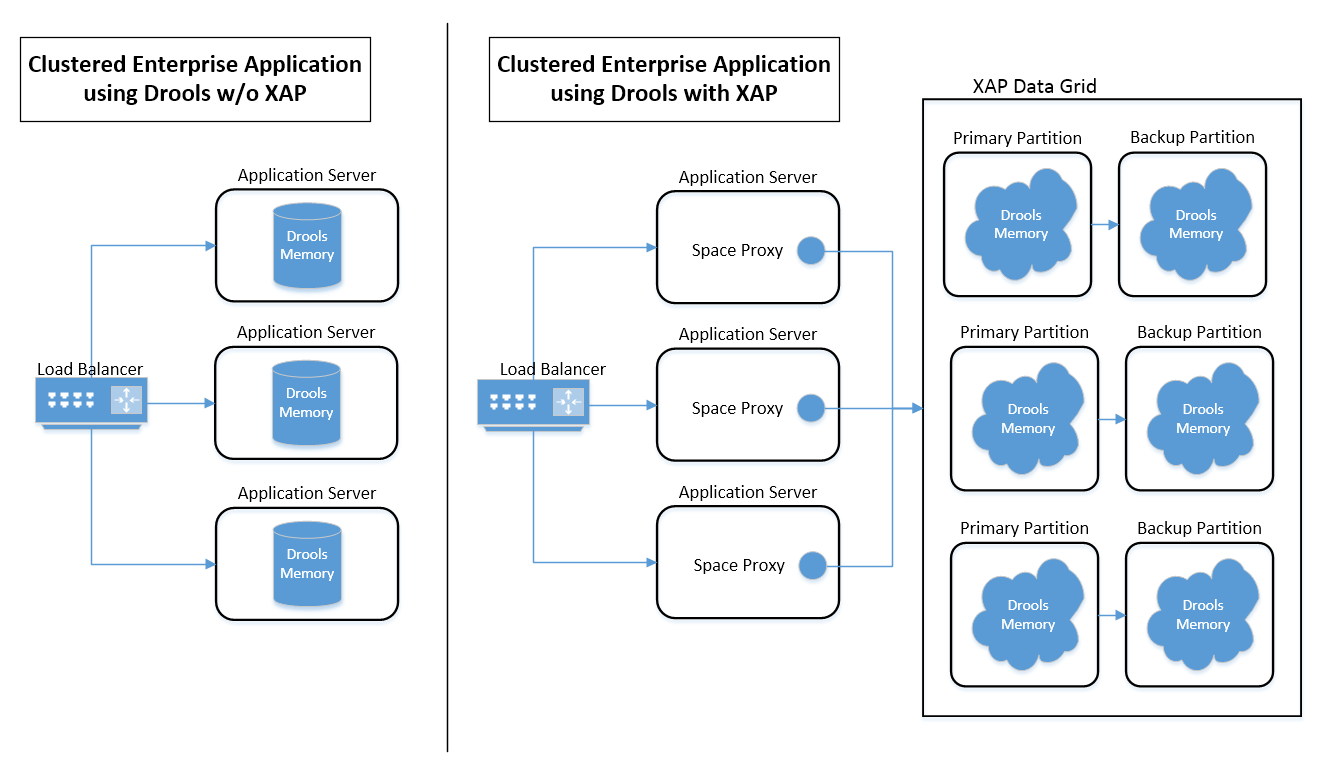
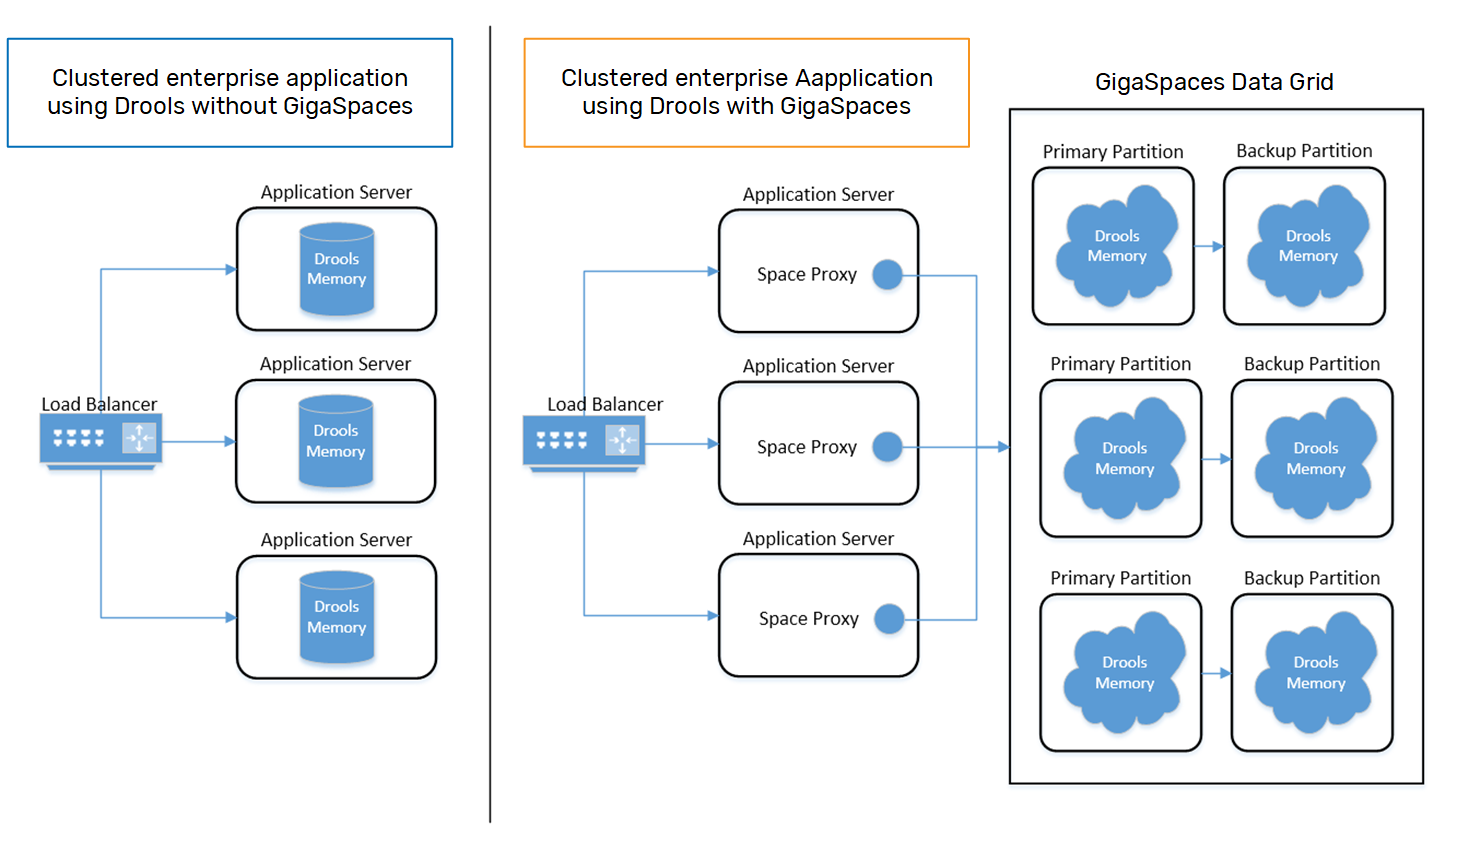
DOC-645 udpated Drools integration topic with new link to repo and diagram

diff --git a/site-flare/Content/solution-hub/xap-drools-integration.html b/site-flare/Content/solution-hub/xap-drools-integration.html
@@ -19,15 +19,14 @@
                     <td>Allen Terleto</td>
                     <td>10.0.1</td>
                     <td>September 2014</td>
-                    <td>
-                    </td>
-                    <td><a href="https://github.com/Gigaspaces/xap-drools-integration">Github link</a>
+                    <td>&#160;</td>
+                    <td><a href="https://github.com/Gigaspaces/solution-hub/tree/master/gigaspaces-drools-integration">Drools integration</a>
                     </td>
                 </tr>
             </tbody>
         </table>
         <h1><a name="summary">&#160;</a>Summary</h1>
-        <p>This article illustrates how to integrate the Drools Rule Engine with GigaSpaces <MadCap:variable name="General.DataGrid" />.</p>
+        <p>This article illustrates how to integrate the Drools Rule Engine with the GigaSpaces <MadCap:variable name="General.DataGrid" />.</p>
         <h1><a name="overview">&#160;</a>Overview</h1>
         <p>Drools is a business rule management system (BRMS) with a forward and backward chaining inference-based rules engine using an enhanced implementation of the <a href="http://en.wikipedia.org/wiki/Rete_algorithm">Rete algorithm</a>. Reasons to use Drools include:</p>
         <ul>
@@ -61,24 +60,24 @@ A package is a collection of rules and other related constructs, such as imports
             <li>Consistency</li>
             <li>Scalability</li>
         </ul>
-        <p>Let's discuss these gaps within the context of a stateless application hosted in clustered environment and explain how an integration with <MadCap:variable name="General.DataGrid" /> would benefit its use of Drools.</p>
+        <p>Let's discuss these gaps within the context of a stateless application hosted in clustered environment and explain how an integration with <MadCap:variable name="General.ProductNameXAP" /> would benefit its use of Drools.</p>
         <div class="tc-align-center">
             <p>
                 <img src="../Resources/Static/attachment_files/drools/drools2.png" alt="drools1" class="tc-picture80" />
             </p>
         </div>
         <h3><a name="distribution">&#160;</a>Distribution</h3>
-        <p>Drools was not created as a distributed solution. In order to maintain seamless load-balancing in a clustered environment, each instance of an enterprise application would require identical data in its <code>KnowledgeBase(s)</code>. Since <MadCap:variable name="General.DataGrid" /> is inherently a distributed environment it allows the clustered enterprise applications to distribute their rules across multiple <a href="https://docs.gigaspaces.com/latest/admin/data-partitioning.html">Data Grid partitions (Space)</a>. In addition, the enterprise applications would use a common reference proxy to the Space allowing them to avoid the burden on managing data locality.</p>
+        <p>Drools was not created as a distributed solution. In order to maintain seamless load-balancing in a clustered environment, each instance of an enterprise application would require identical data in its <code>KnowledgeBase(s)</code>. The <MadCap:variable name="General.ProductNameXAP" /> data grid is inherently a distributed environment, so it allows the clustered enterprise applications to distribute their rules across multiple <a href="https://docs.gigaspaces.com/latest/admin/data-partitioning.html">Data Grid partitions (Spaces)</a>. In addition, enterprise applications use a common reference proxy to the Space, allowing them to avoid the burden on managing data locality.</p>
         <h3><a name="failover">&#160;</a>Failover</h3>
-        <p>Without <MadCap:variable name="General.DataGrid" /> the data in the <code>KnowledgeBase</code> would be lost, in the case of node failure within the cluster, and could not be recovered by the standard failover mechanism. Data grid provides data failover out of the box via its <a href="https://docs.gigaspaces.com/latest/admin/asynchronous-replication.html">asynchronous replication</a> to back up cluster topology. In the case of a <MadCap:variable name="General.DataGrid" /> primary partition failure, the backup partition would become the primary, preventing data loss and maintaining data integrity throughout the entire process.</p>
+        <p>Without <MadCap:variable name="General.ProductNameXAP" />, the data in the <code>KnowledgeBase</code> would be lost, in the case of node failure within the cluster, and could not be recovered by the standard failover mechanism. <MadCap:variable name="General.ProductNameXAP" /> provides data failover out of the box via its <a href="https://docs.gigaspaces.com/latest/admin/asynchronous-replication.html">asynchronous replication</a> to back up cluster topology. In the case of a <MadCap:variable name="General.ProductNameXAP" /> primary partition failure, the backup partition becomes the primary, preventing data loss and maintaining data integrity throughout the entire process.</p>
         <h3><a name="redundancy">&#160;</a>Redundancy</h3>
-        <p>Storing the KnowledgeBase's data in each clustered JVM memory is redundant and costly in terms of memory footprint. Integration with <MadCap:variable name="General.DataGrid" /> removes the enterprise application's need to locally store data because the <code>KnowledgeBase</code> resides in a partition hosted on the Data Grid.</p>
+        <p>Storing the KnowledgeBase's data in each clustered JVM memory is redundant and costly in terms of memory footprint. Integration with <MadCap:variable name="General.ProductNameXAP" /> removes the enterprise application's need to locally store data because the <code>KnowledgeBase</code> resides in a partition hosted on the Data Grid.</p>
         <h3><a name="consistency">&#160;</a>Consistency</h3>
-        <p>Similar to the concerns of load balancing, enterprise applications require all clustered JVMs to not only store identical data but also ensure consistency upon any change. Instead of building a custom solution to update the entire cluster, <MadCap:variable name="General.DataGrid" /> can be used to ensure data consistency. By utilizing <MadCap:variable name="General.DataGrid" />'s built-in <a href="https://docs.gigaspaces.com/latest/dev-java/routing-in-partitioned-spaces.html">Routing Mechanism</a>, all instances of the cluster can seamlessly be routed to the unique partition that is storing the relevant KnowledgeBase(s) and always receive a consistent result.</p>
+        <p>Similar to the concerns of load balancing, enterprise applications require all clustered JVMs to not only store identical data but also ensure consistency upon any change. Instead of building a custom solution to update the entire cluster, <MadCap:variable name="General.ProductNameXAP" /> can be used to ensure data consistency. By utilizing <MadCap:variable name="General.ProductNameXAP" />'s built-in <a href="https://docs.gigaspaces.com/latest/dev-java/routing-in-partitioned-spaces.html">Routing Mechanism</a>, all instances of the cluster can seamlessly be routed to the unique partition that is storing the relevant KnowledgeBase(s) and always receive a consistent result.</p>
         <h3><a name="scalability">&#160;</a>Scalability</h3>
-        <p>An enterprise application hosting multiple instances of KnowledgeBases can be limited by the memory constraints of its underlying JVM. Turning to a 64-bit JVM could extend memory resources, but its benefits are eventually offset by incurring an increased garbage collection penalty. With <MadCap:variable name="General.DataGrid" />, KnowledgeBases can be distributed across separate partitions each hosted on top of their own individual 64-bit JVM, allowing Drool's production/working memory to scale into the Terabytes.</p>
+        <p>An enterprise application hosting multiple instances of KnowledgeBases can be limited by the memory constraints of its underlying JVM. Turning to a 64-bit JVM could extend memory resources, but its benefits are eventually offset by incurring an increased garbage collection penalty. With <MadCap:variable name="General.ProductNameXAP" />, KnowledgeBases can be distributed across separate partitions each hosted on top of their own individual 64-bit JVM, allowing Drool's production/working memory to scale into the Terabytes.</p>
         <h1><a name="integration-pattern">&#160;</a>Integration Pattern</h1>
-        <p>To demonstrate <MadCap:variable name="General.DataGrid" />'s integration with Drools, we designed a pattern in the form of a Maven project. The project is distributed into 4 Maven Modules, each with an individual purpose:</p>
+        <p>To demonstrate <MadCap:variable name="General.ProductNameXAP" />'s integration with Drools, we designed a pattern in the form of a Maven project. The project is distributed into 4 Maven Modules, each with an individual purpose:</p>
         <table>
             <thead>
                 <tr>
@@ -108,9 +107,9 @@ A package is a collection of rules and other related constructs, such as imports
         <p>The combination of these modules provide you with a working project to deploy a Data Grid, load/compile/remove rules from DRL files, execute rules from a one-off process and/or expose them as JSON Restful Web Service.</p>
         <p>Let's review each module to understand their code and patterns.</p>
         <h2><a name="common-module">&#160;</a>Common Module</h2>
-        <p>The main purpose of this module is to define the data model for the entire Data Grid. The data model includes a <a href="https://docs.gigaspaces.com/latest/dev-java/pojo-overview.html">POJO</a> representation of Facts, Drools Rules, Knowledge Packages, KnowledgeBases, etc.</p>
+        <p>The main purpose of this module is to define the data model for the entire data grid. The data model includes a <a href="https://docs.gigaspaces.com/latest/dev-java/pojo-overview.html">POJO</a> representation of Facts, Drools Rules, Knowledge Packages, KnowledgeBases, etc.</p>
         <p>Facts are representations of business entities which will be referenced in either or both the condition and consequence of rules. In order for client applications to dynamically create rules, they must first define Facts which will be loaded into a KnowledgeBase's Working Memory before Rules execution can occur. Therefore the Fact POJO must be created and deployed with the Space module before new dynamic rules can be compiled and executed using them as a reference.</p>
-        <p>The integration between Drools and <MadCap:variable name="General.DataGrid" /> is represented as the <a href="https://docs.gigaspaces.com/latest/dev-java/pojo-support.html">Space Class</a> called KnowledgeBaseWrapper. This object stores a KnowledgeBase in the Data Grid along with all of its compiled content (i.e. rules, definitions, globals, fact types, etc.). Therefore it is a wrapper of the Drools Production/Working Memory, which is enhanced with the routing capabilities of a Space class along with additional attributes compensating for the KnowledgeBase's lack of transparency.</p>
+        <p>The integration between Drools and <MadCap:variable name="General.ProductNameXAP" /> is represented as the <a href="https://docs.gigaspaces.com/latest/dev-java/pojo-support.html">Space Class</a> called KnowledgeBaseWrapper. This object stores a KnowledgeBase in the data grid along with all of its compiled content (i.e. rules, definitions, globals, fact types, etc.). Therefore it is a wrapper of the Drools Production/Working Memory, which is enhanced with the routing capabilities of a Space class along with additional attributes compensating for the KnowledgeBase's lack of transparency.</p>
         <p>The remaining POJOs are meant to be informative tools for management and governance purposes. Their role is to provide the user with metadata type information about the contents of KnowledgeBase without having to execute operations against the actual objects.</p>
         <h2><a name="client-module">&#160;</a>Client Module</h2>
         <p>This module implements classes encapsulating stand-alone functional processes to load, analyze, execute and remove Rules and Facts. These processes can be simply instantiated by running their main methods and will interact with the space via the Space Proxy. If you are using an Eclipse IDE you can just click on the class and choose Run As Configurations to start the process.</p>
@@ -221,7 +220,7 @@ end
 </code></pre>
         <p>The client module also allows the removal of an individual rule as an alternative to changing the element inside <code>RuleSet.xml</code> from &lt;add&gt; to &lt;remove&gt;. To remove a specific rule using this utility you need only to change the arguments when running the RemoveRule class as an application.</p>
         <h2><a name="space-module">&#160;</a>Space Module</h2>
-        <p>This module creates a deployable artifact (JAR) which instantiates Stateful processing unit(s) representing the Data Grid (Space). By default, the Space uses the SLA.xml file to deploy the predetermined amount of primary and backup partitions with the clustering topology set to <code>partitioned-sync2backup</code>.</p><pre MadCap:conditions="Version.14-5-died"><code class="language-xml">&lt;?xml version="1.0" encoding="UTF-8"?&gt;
+        <p>This module creates a deployable artifact (JAR) which instantiates Stateful processing unit(s) representing the data grid (Space). By default, the Space uses the SLA.xml file to deploy the predetermined amount of primary and backup partitions with the clustering topology set to <code>partitioned-sync2backup</code>.</p><pre MadCap:conditions="Version.14-5-died"><code class="language-xml">&lt;?xml version="1.0" encoding="UTF-8"?&gt;
 &lt;beans xmlns="http://www.springframework.org/schema/beans"
        xmlns:xsi="http://www.w3.org/2001/XMLSchema-instance"
        xmlns:os-sla="http://www.openspaces.org/schema/sla"
@@ -246,8 +245,8 @@ end
 
 &lt;/beans&gt;
 </code></pre>
-        <p>In addition to hosting data, this processing unit takes advantage of<MadCap:variable name="General.DataGrid" />'s collocation of business logic in the form of Event Processing and Space Based Remoting.</p>
-        <p>The event processor of choice is the Polling Container, which listens for specific events to occur on the Space. As part of our integration pattern, we opted to decouple the adding/removing of Rule Events to the Space from the compilation and injection of those rules to their respective KnowledgeBase. Since loading a single instance of a KnowledgeBase creates a bottleneck for a queue of 100+ rules, it makes sense to allow the client (remote client proxy) to fire and forget while the server (space) does its work at its own pace. Upon notification of an event, the collocated event handler looks up the KnowledgeBase from the Data Grid and adds the new rule to the KnowledgeBase, assuming compilation was successful. It alsos updates the metadata type Space Classes to keep track of the KnowledgeBase contents for transparency.</p><pre><code class="language-java">@SpaceDataEvent
+        <p>In addition to hosting data, this processing unit takes advantage of <MadCap:variable name="General.ProductNameXAP" />'s collocation of business logic in the form of event processing and Space-based remoting.</p>
+        <p>The event processor of choice is the Polling Container, which listens for specific events to occur on the Space. As part of our integration pattern, we opted to decouple the adding/removing of Rule Events to the Space from the compilation and injection of those rules to their respective KnowledgeBase. Since loading a single instance of a KnowledgeBase creates a bottleneck for a queue of 100+ rules, it makes sense to allow the client (remote client proxy) to fire and forget while the server (Space) does its work at its own pace. Upon notification of an event, the collocated event handler looks up the KnowledgeBase from the data grid and adds the new rule to the KnowledgeBase, assuming compilation was successful. It alsos updates the metadata type Space Classes to keep track of the KnowledgeBase contents for transparency.</p><pre><code class="language-java">@SpaceDataEvent
 public DroolsRuleAddEvent addRule(DroolsRuleAddEvent droolsRuleAddEvent) {
     String ruleSet = droolsRuleAddEvent.getRuleSet();
     String knowledgePackageName = droolsRuleAddEvent.getPackageName();
@@ -284,7 +283,7 @@ public DroolsRuleAddEvent addRule(DroolsRuleAddEvent droolsRuleAddEvent) {
         return null;
  }
 </code></pre>
-        <p><a href="https://docs.gigaspaces.com/latest/dev-java/space-based-remoting-overview.html">Space Based Remoting</a> is a combination of an interface located in the common module and an implementation of the interface that is deployed co-located with the space. The interface is shared by both the space and the client(s) via the common module. To expose the interface as a Remoting Service, a simple annotation was added to the implementation class as well as a annotation scan within the <a href="https://docs.gigaspaces.com/latest/dev-java/configuring-processing-unit-elements.html">pu.xml</a>.</p>
+        <p><a href="https://docs.gigaspaces.com/latest/dev-java/space-based-remoting-overview.html">Space-based remoting</a> is a combination of an interface located in the common module and an implementation of the interface that is deployed co-located with the space. The interface is shared by both the space and the client(s) via the common module. To expose the interface as a Remoting Service, a simple annotation was added to the implementation class as well as a annotation scan within the <a href="https://docs.gigaspaces.com/latest/dev-java/configuring-processing-unit-elements.html">pu.xml</a>.</p>
         <div class="easyui-tabs" plain="true" data-options="">
             <div title=" Configuration" style="padding:10px"><pre MadCap:conditions="Version.14-5-died"><code class="language-xml">&lt;?xml version="1.0" encoding="UTF-8"?&gt;
 &lt;beans xmlns:xsi="http://www.w3.org/2001/XMLSchema-instance"
@@ -426,7 +425,7 @@ public class RulesExecutionServiceImpl implements IRulesExecutionService {
 }
 </code></pre>
         <h3><a name="web-services-module">&#160;</a>Web Services Module</h3>
-        <p>This module creates a deployable artifact (WAR) that instantiates a Stateless processing unit(s) hosting JSON Restful Web Services on top of <MadCap:variable name="General.DataGrid" />'s <a href="https://docs.gigaspaces.com/latest/dev-java/web-jetty-processing-unit-container.html">Jetty Processing Unit Container</a>.</p>
+        <p>This module creates a deployable artifact (WAR) that instantiates a Stateless processing unit(s) hosting JSON Restful Web Services on top of <MadCap:variable name="General.ProductNameXAP" />'s <a href="https://docs.gigaspaces.com/latest/dev-java/web-jetty-processing-unit-container.html">Jetty Processing Unit Container</a>.</p>
         <div class="tc-align-center">
             <p>
                 <img src="../Resources/Static/attachment_files/drools/drools4.png" alt="drools1" class="tc-picture50" />
@@ -482,7 +481,7 @@ public class RulesExecutionServiceImpl implements IRulesExecutionService {
                     </p>
                 </div>
                 <div title="Step 3: XAP Installation" style="padding:10px;">
-                    <p>If <MadCap:variable name="General.DataGrid" /> is not installed, download the <a href="http://www.gigaspaces.com/xap-download">latest version</a> and add JSHOMEDIR to your system variables.</p>
+                    <p>If <MadCap:variable name="General.ProductNameXAP" /> is not installed, download the <a href="https://www.gigaspaces.com/downloads/">latest version</a> and add JSHOMEDIR to your system variables.</p>
                     <p>
                         <img src="../Resources/Static/attachment_files/drools/drools14.png" alt="drools1" class="tc-picture30" />
                     </p>
@@ -492,19 +491,19 @@ public class RulesExecutionServiceImpl implements IRulesExecutionService {
                     </p>
                 </div>
                 <div title="Step 4: Download Example" style="padding:10px;">
-                    <p>Download the <a href="https://github.com/Gigaspaces/xap-drools-integration">example</a> and extract.</p>
+                    <p>Download the <a href="https://github.com/Gigaspaces/solution-hub/tree/master/gigaspaces-drools-integration">example</a> and extract.</p>
                     <p>
                         <img src="../Resources/Static/attachment_files/drools/drools16.png" alt="drools1" class="tc-picture50" />
                     </p>
                 </div>
-                <div title="Step 5: Execute maven command" style="padding:10px;">
+                <div title="Step 5: Execute Maven command" style="padding:10px;">
                     <p>Navigate to the project root and execute the mvn package command.</p>
                     <p>
                         <img src="../Resources/Static/attachment_files/drools/drools17.png" alt="drools1" class="tc-picture50" />
                     </p>
                 </div>
-                <div title="Step 6: Start the XAP agent" style="padding:10px;">
-                    <p>Navigate to the <MadCap:variable name="General.DataGrid" /> bin directory and double-click gs-agent.bat.</p>
+                <div title="Step 6: Start the GigaSpaces agent" style="padding:10px;">
+                    <p>Navigate to the <MadCap:variable name="General.ProductNameXAP" /> bin directory and double-click gs-agent.bat.</p>
                     <p>
                         <img src="../Resources/Static/attachment_files/drools/drools18.png" alt="drools1" class="tc-picture50" />
                     </p>
@@ -525,7 +524,7 @@ public class RulesExecutionServiceImpl implements IRulesExecutionService {
                         <img src="../Resources/Static/attachment_files/drools/drools24.png" alt="drools1" class="tc-picture50" />
                     </p>
                 </div>
-                <div title="Step 10: View Data Grid" style="padding:10px;">
+                <div title="Step 10: View the Data Grid" style="padding:10px;">
                     <p>Confirm that the <code>Space</code> was created by clicking the <code>Data Grid</code> tab.</p>
                     <p>
                         <img src="../Resources/Static/attachment_files/drools/drools25.png" alt="drools1" />
@@ -543,7 +542,7 @@ public class RulesExecutionServiceImpl implements IRulesExecutionService {
                         <img src="../Resources/Static/attachment_files/drools/drools27.png" alt="drools1" class="tc-picture50" />
                     </p>
                 </div>
-                <div title="Step 13: Loading the rules" style="padding:10px;">
+                <div title="Step 13: Load the rules" style="padding:10px;">
                     <p>Run DroolsRuleLoader.java and FactLoader.java as a Java Application.</p>
                     <p>
                         <img src="../Resources/Static/attachment_files/drools/drools28.png" alt="drools1" class="tc-picture50" />
